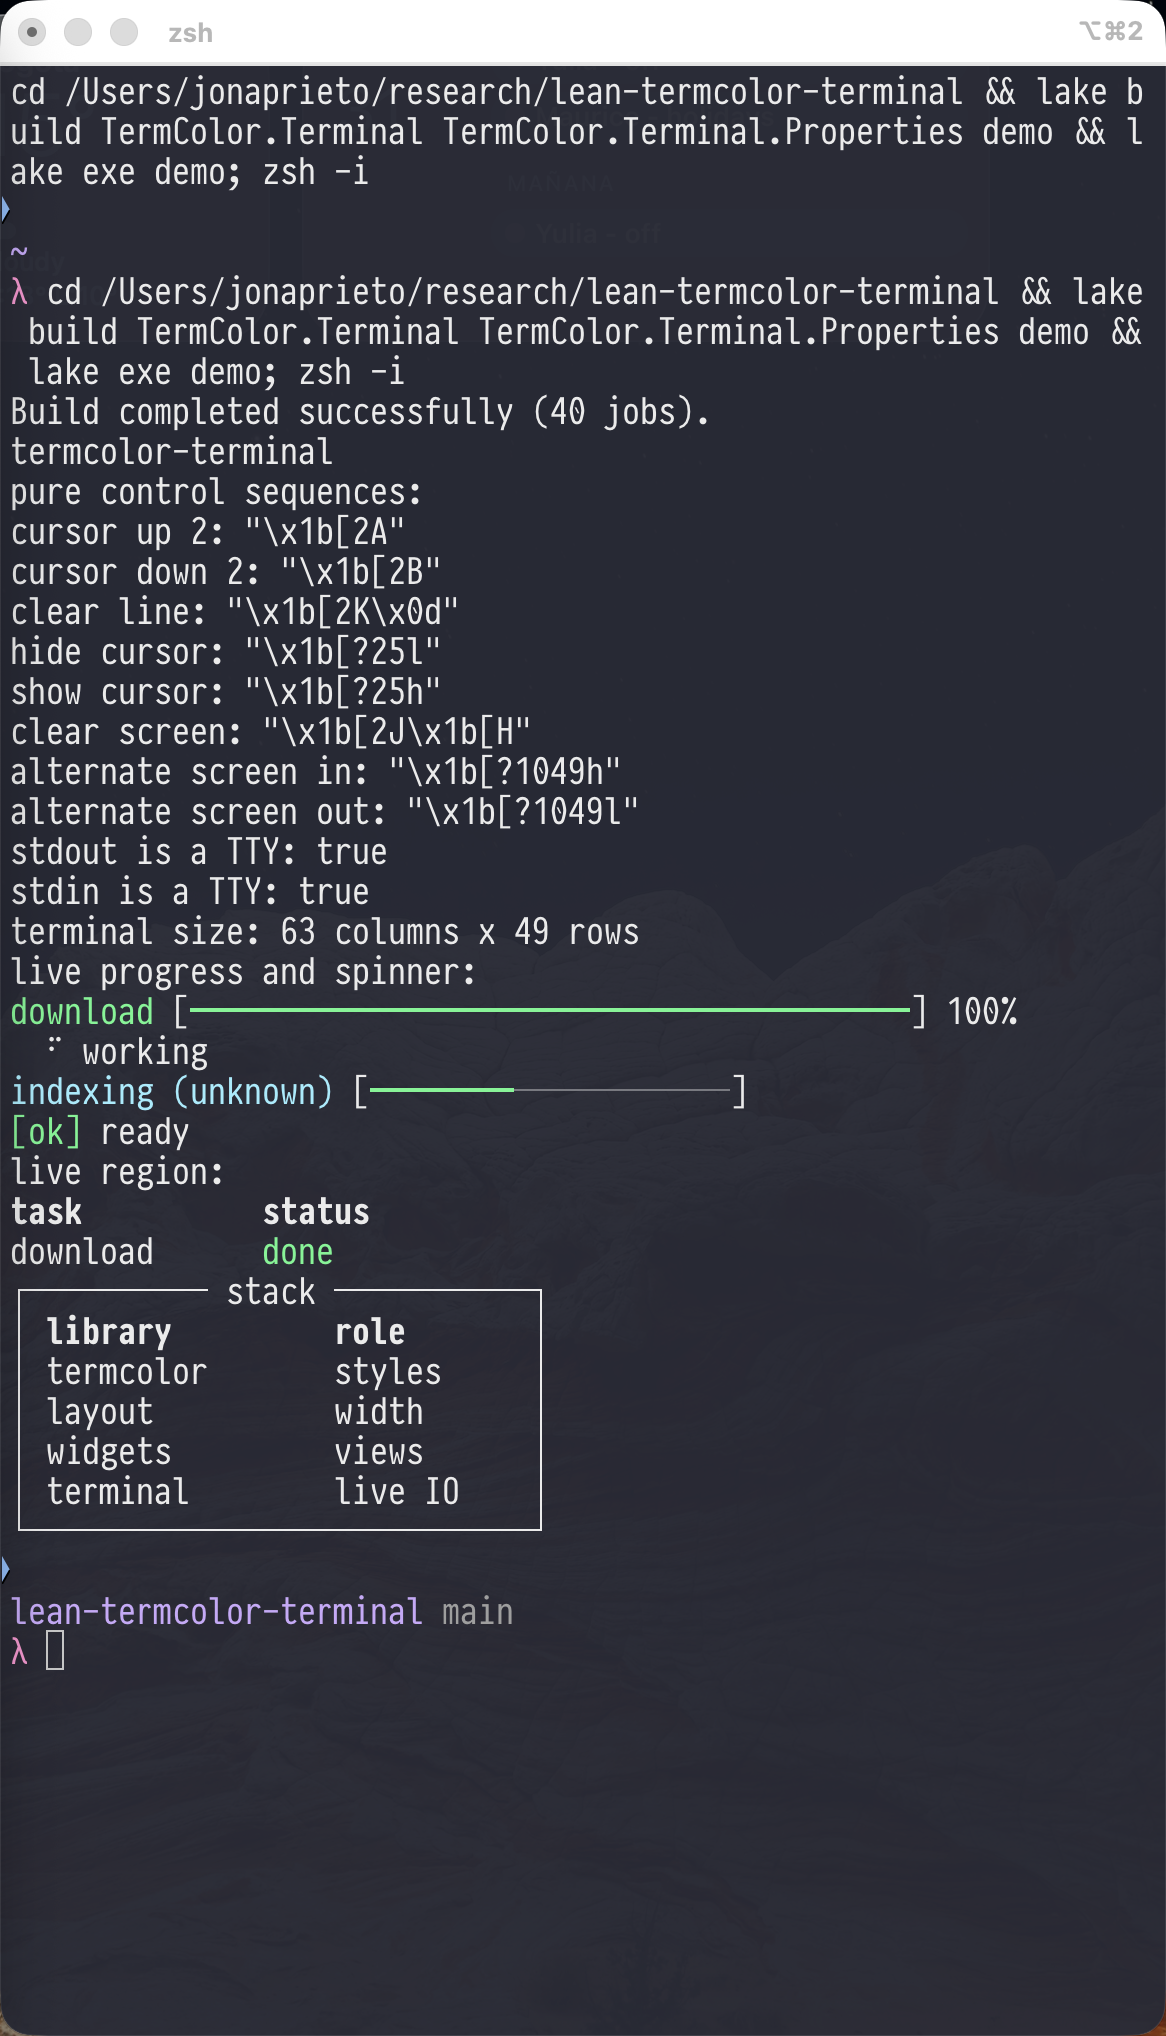
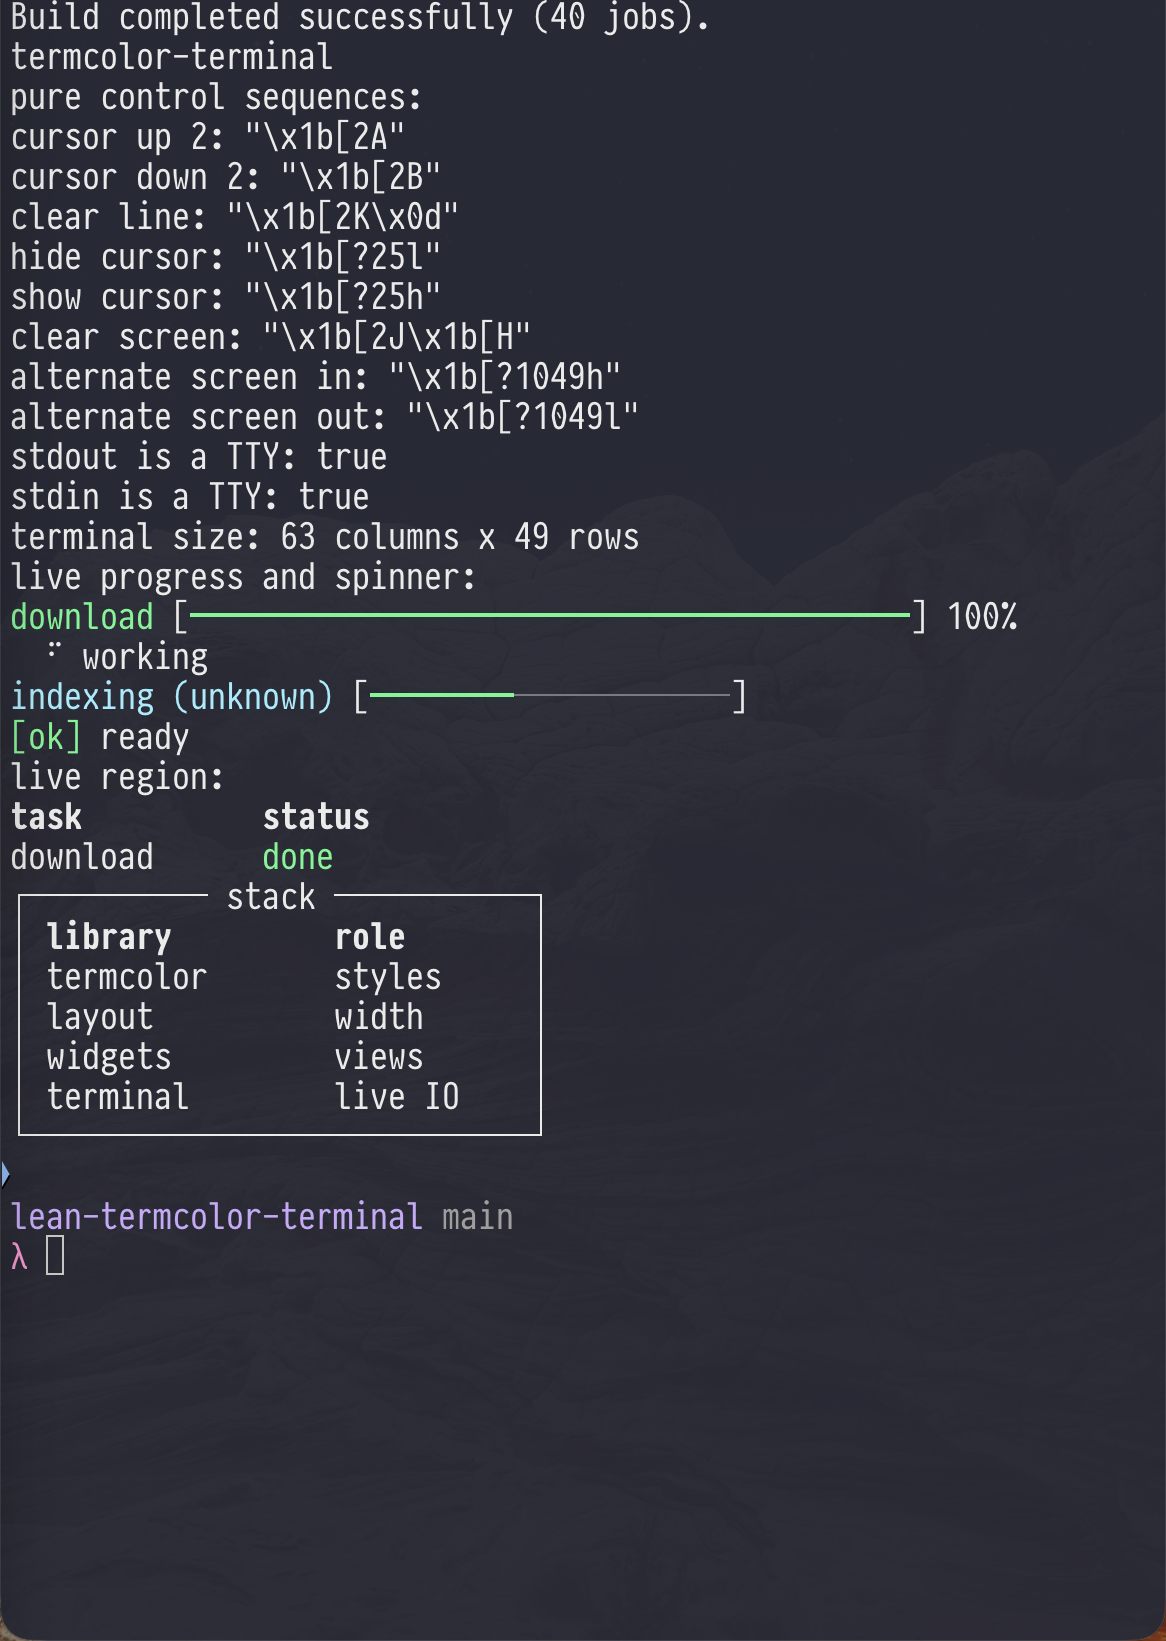
docs: clean terminal demo

diff --git a/README.md b/README.md
@@ -4,9 +4,9 @@
 [![Lean 4](https://img.shields.io/badge/Lean%204-library-5f5f5f)](lean-toolchain)
 [![License](https://img.shields.io/badge/license-Apache--2.0-green)](LICENSE)
 
-Terminal control and live IO helpers for the `termcolor` stack. Pure ANSI sequences are exposed
-alongside stdout output, flushing, one-line redraws, multi-line regions, and widget-backed live
-progress and spinner objects.
+Terminal control and live IO helpers for the [`termcolor`](https://github.com/jonaprieto/lean-termcolor)
+stack. Pure ANSI sequences are exposed alongside stdout output, flushing, one-line redraws,
+multi-line regions, and widget-backed live progress and spinner objects.
 
 ```lean
 import TermColor.Terminal
@@ -30,8 +30,11 @@ cursor escape sequences. `stdoutSupportsControl` exposes the same policy to call
 
 `LiveRegion` redraws a one- or multi-line `Text` value at a cached terminal width, and `LiveProgress`,
 `LiveSpinner`, `LiveIndeterminateProgress`, `LiveStatus`, and `LiveTable` connect
-`termcolor-widgets` to those live updates. Styled text is rendered through `TermColor.Detect`,
-while `termcolor-layout` supplies width-aware boxes, columns, and the default terminal width.
+[`termcolor-widgets`](https://github.com/jonaprieto/lean-termcolor-widgets) to those live updates.
+Styled text is rendered through `TermColor.Detect`, while
+[`termcolor-layout`](https://github.com/jonaprieto/lean-termcolor-layout) supplies width-aware
+boxes, columns, and the default terminal width. [`argus`](https://github.com/jonaprieto/lean-argus)
+uses this terminal layer for command help and completion output.
 
 ## TUI input core
 
